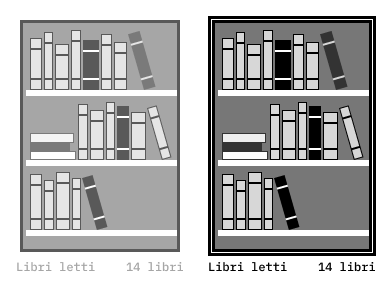
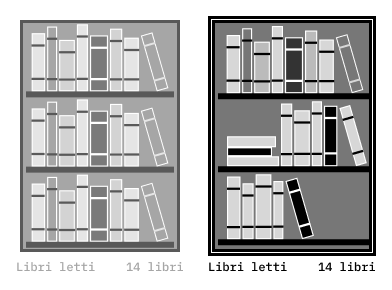
Match all shelf layouts to the reference shelf
Claude-Session: https://claude.ai/code/session_017ad5J3QvE7Jna11hQjBPhw

diff --git a/diario/2026-11-16-home-landing.md b/diario/2026-11-16-home-landing.md
@@ -1,6 +1,6 @@
 # 2026-11-16 · Home di partenza e Archivio grande come un libro
 
-**Durata:** circa 12 minuti (12:44–12:52 UTC, più 4 minuti alle 12:50 per le due mensole e 8 minuti alle 12:55 per lo scaffale a tre ripiani, 5 minuti alle 12:59 per libri obliqui e rilegature).
+**Durata:** circa 12 minuti (12:44–12:52 UTC, più 4 minuti alle 12:50 per le due mensole e 8 minuti alle 12:55 per lo scaffale a tre ripiani, 5 minuti alle 12:59 per libri obliqui e rilegature, 8 minuti alle 13:07 per uniformare i ripiani).
 **Risultato:** la libreria a copertine di Simone diventa la schermata di partenza
 (*00 · Home (landing)* nel file Figma [Carbonella](https://www.figma.com/design/TD5USYE5DwkvWALoR821lL)),
 con l'Archivio come prima card della griglia.
@@ -73,6 +73,23 @@ li ho fatti chiari o grafite.
 | Prima (obliqui a destra) | Segnalazione di Simone |
 |---|---|
 | ![](img/2026-11-16-archivio-card-obliqui-destra.png) | ![](img/2026-11-16-ripiano-feedback-simone.png) |
+
+### Ripiani uniformati al riferimento di Simone
+
+Simone ha ridisegnato a mano il ripiano A (dorsi più alti, scala 1,12, filo bianco attorno ai dorsi,
+fasce nere sui dorsi chiari, mensola nera, fondo grigio chiaro) e ha chiesto: "scala tutti i ripiani e
+rendili proporzionati a questo, anche stessi colori".
+
+![Riferimento di Simone](img/2026-11-16-ripiano-riferimento-simone.png)
+
+- B, C, D, E hanno ora la stessa struttura di A: 154×73, una fila di libri in auto layout (spazio 2 px)
+  appoggiata su una mensola nera da 6 px.
+- Ogni dorso è stato scalato di 1,12 come in A (fasce e bordi compresi), con il filo bianco da 1,12 px.
+- Le pile di libri sdraiati sono un piccolo gruppo verticale nella fila, alternando grigio chiaro e nero.
+- Il buco in C è un elemento "Spazio" vuoto, così si può allargare o togliere.
+- In B, con i libri più grandi, non c'era più posto: ho tolto due dorsi.
+
+Nella card, la variante normale mostra tre volte il ripiano A (scelta di Simone), quella selezionata A, B e D.
 
 Versione precedente a due mensole:
 
